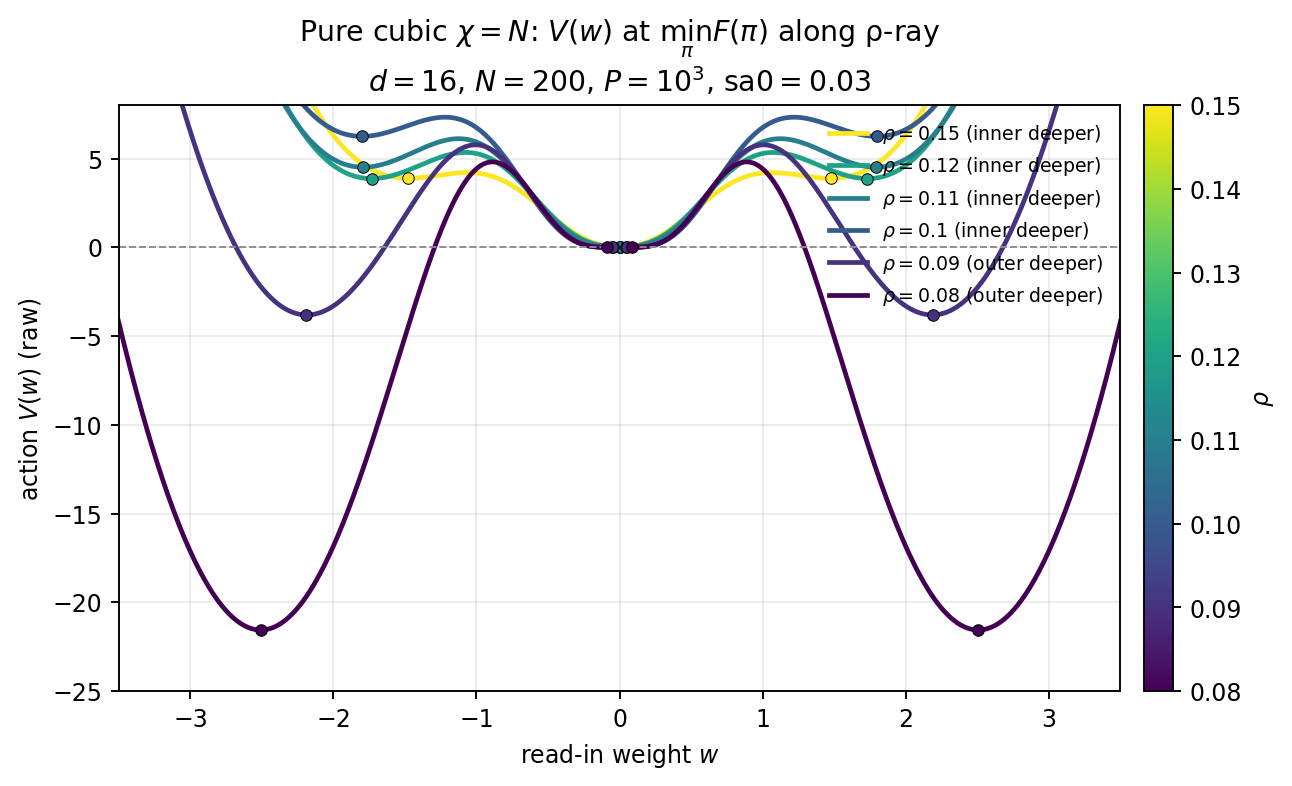
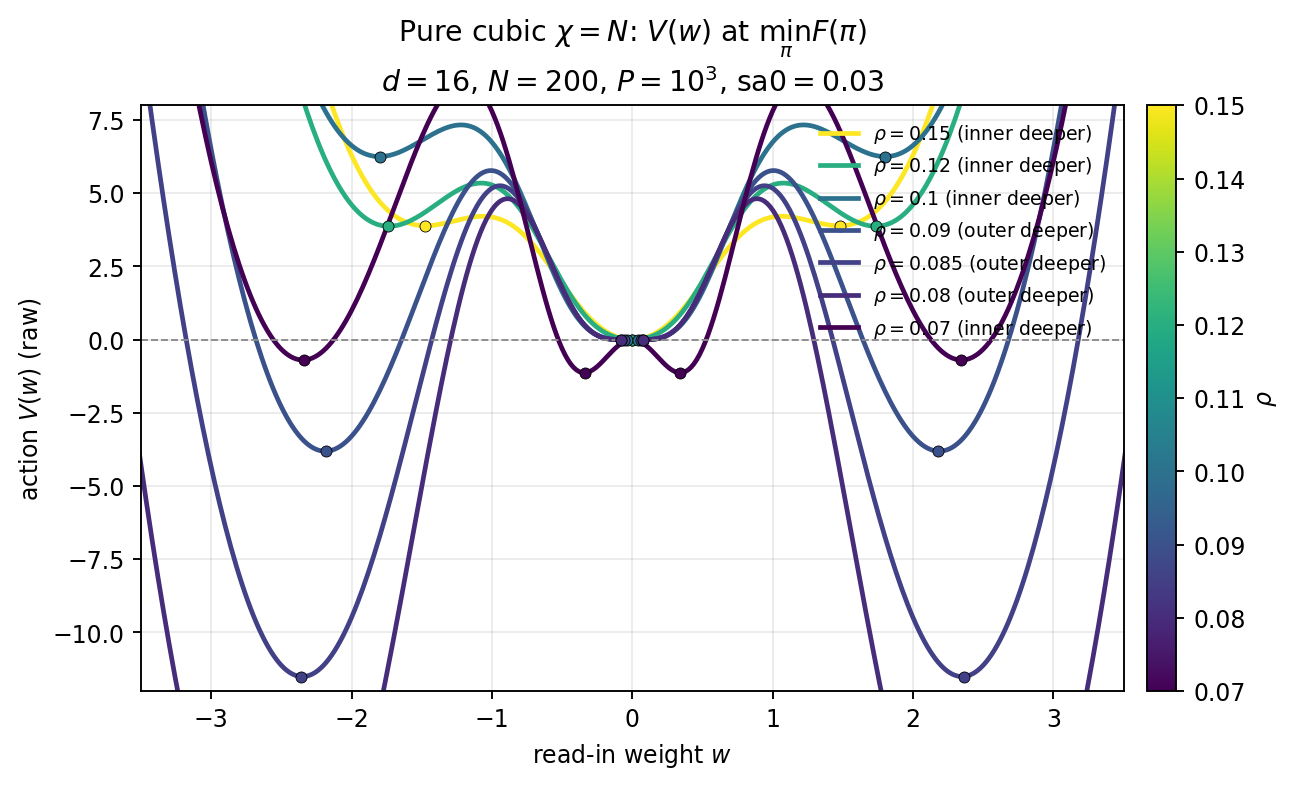
Redraw FO ρ-ray learnability: dense scan, twin-axis π, clean L3 panel.

diff --git a/milestones/fcn2_erf_hidden_kernel/action_h0_activation_plots/PureCubicChiN/fo_rho_ray_fmin/README.md b/milestones/fcn2_erf_hidden_kernel/action_h0_activation_plots/PureCubicChiN/fo_rho_ray_fmin/README.md
@@ -1,19 +1,21 @@
-# Pure-cubic FO ρ-ray at \(\min_\pi F(\pi)\)
+# Pure-cubic FO ρ-ray at min_π F(π)
 
 Working phase-transition ray from the self-consistent multiwell matrix Laplace
 solver (`tmp_multiwell_pure_cubic.jl --rho-ray-actions --modes equilibrium`).
 
 ## Setup
 
-- teacher \(y=(0,\varepsilon=1)\)
-- \(d=16\), \(N=\chi=200\), \(P=10^3\), \(\mathrm{sa0}=0.03\)
-- control \(\rho=\kappa/(\mathrm{sa0}\,P)\)
-- equilibrium = global \(\min_\pi F(\pi)\) (hardened π-walk + free-solve fallback)
+- teacher y = (0, ε = 1)
+- d = 16, N = χ = 200, P = 10³, sa0 = 0.03
+- control ρ = κ / (sa0 P)
+- equilibrium = global min_π F(π)
 
 ## Figures
 
-- `learnability_and_wells_vs_rho.png` — \(L_3\), well depths, \(dV\) and \(\pi_{\mathrm{out}}\) vs \(\rho\)
-- `actions_V_vs_w.png` — raw cavity action \(V(w)\) at the free-energy minimum
+- `L3_vs_rho.png` — cubic learnability alone (dense ρ)
+- `learnability_and_wells_vs_rho.png` — L₃ + wells + dV / π_out
+- `actions_V_vs_w.png` — raw cavity action V(w) at the F minimum
 - `summary_equilibrium.csv` — numeric summary
 
-FO crossing (outer wells below inner at the \(F\) minimum): between \(\rho=0.10\) and \(\rho=0.09\).
+FO crossing (outer wells below inner at the F minimum): between ρ = 0.095 and ρ = 0.09.
+The mild dip in L₃ across that window is the outer-branch equilibrium, not sampling noise.
